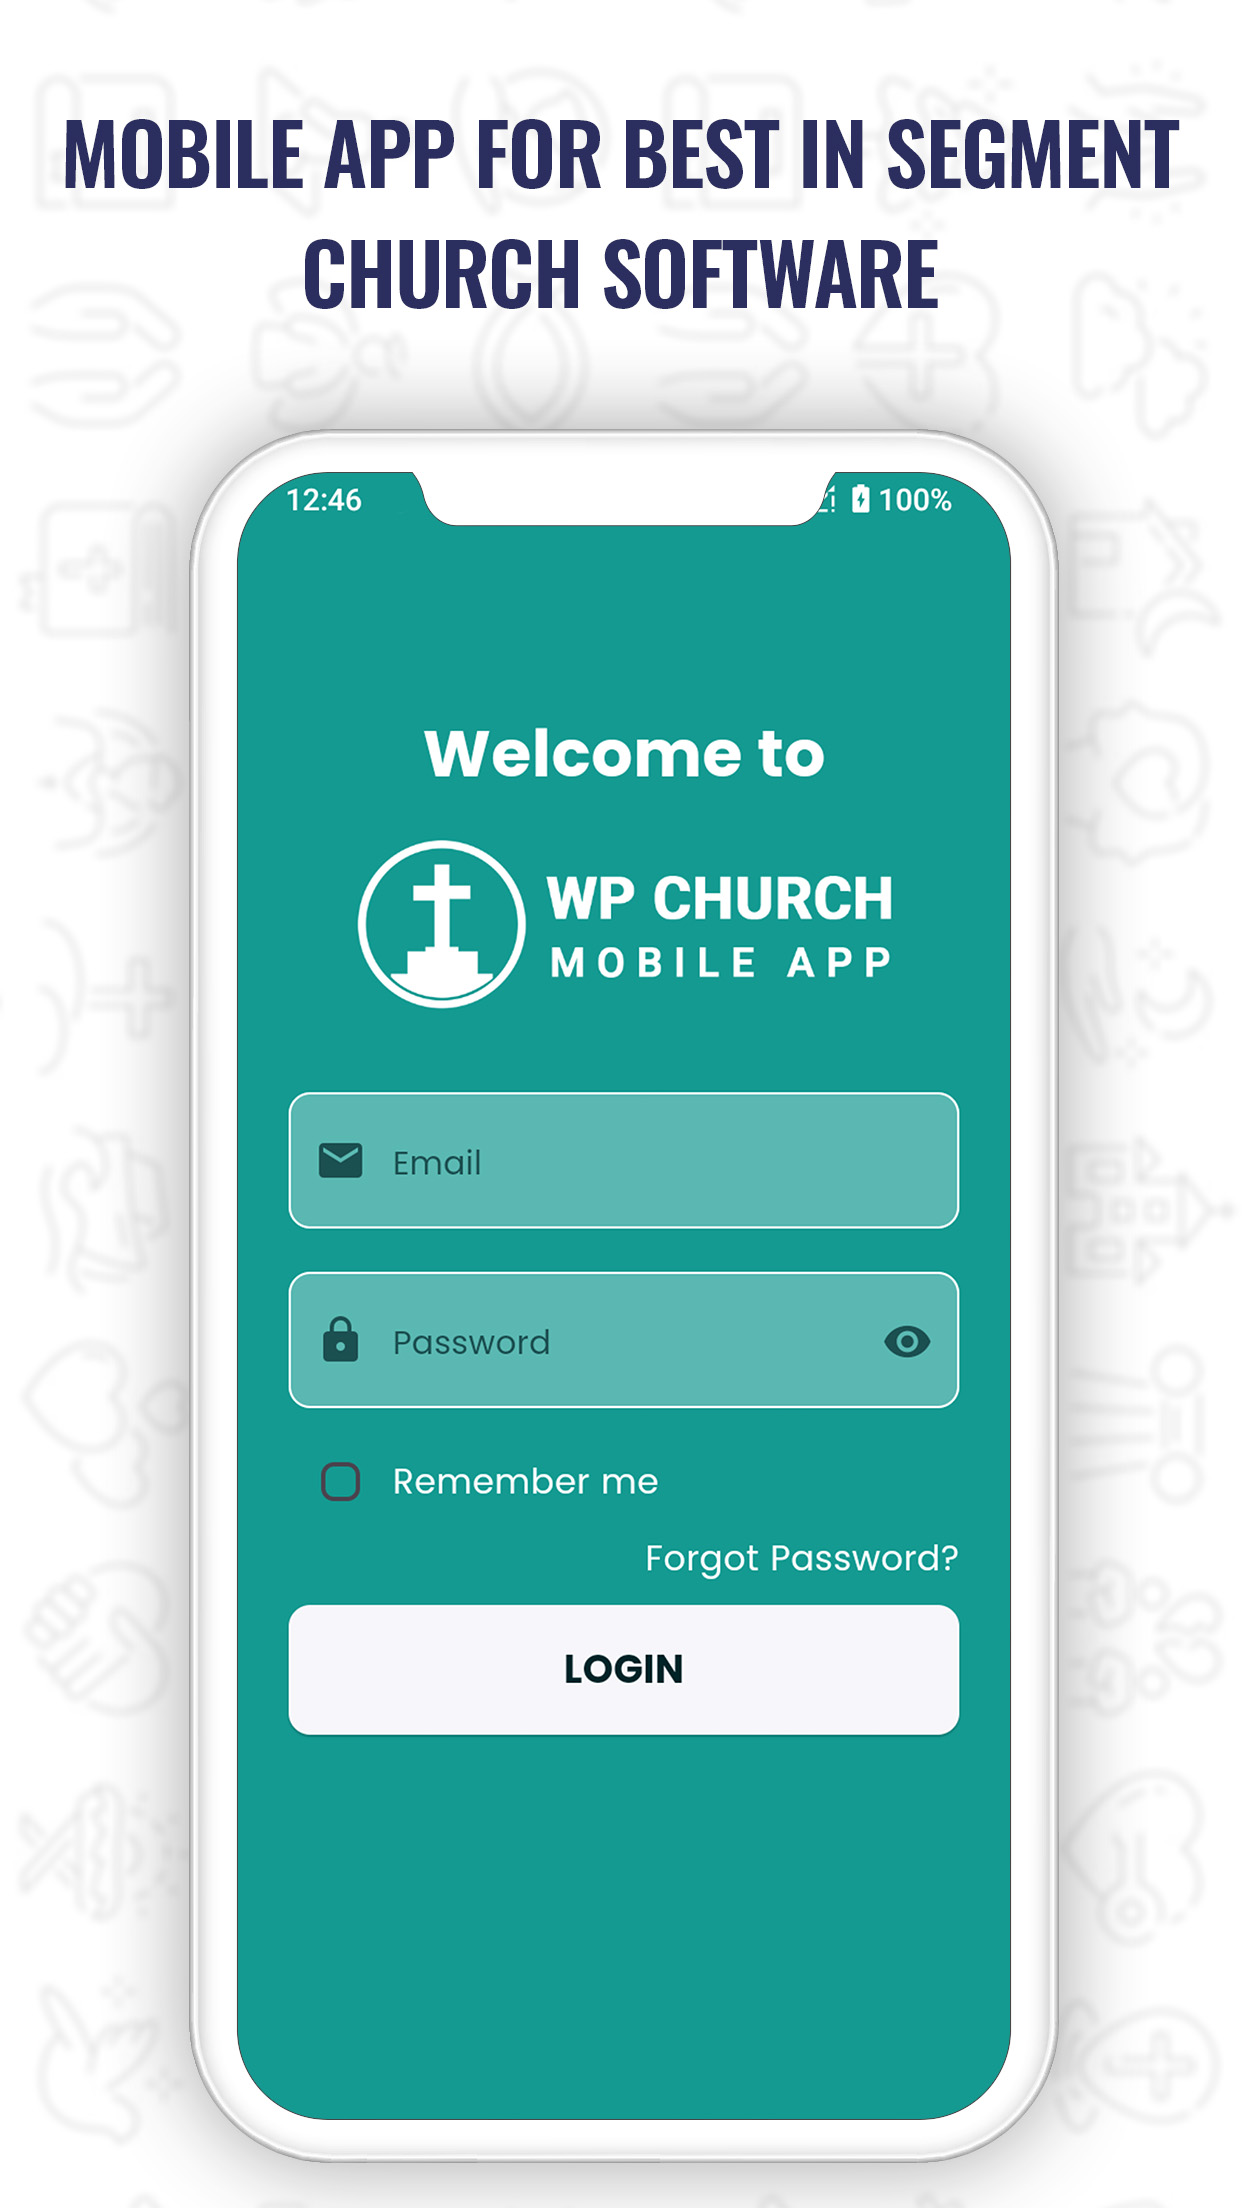
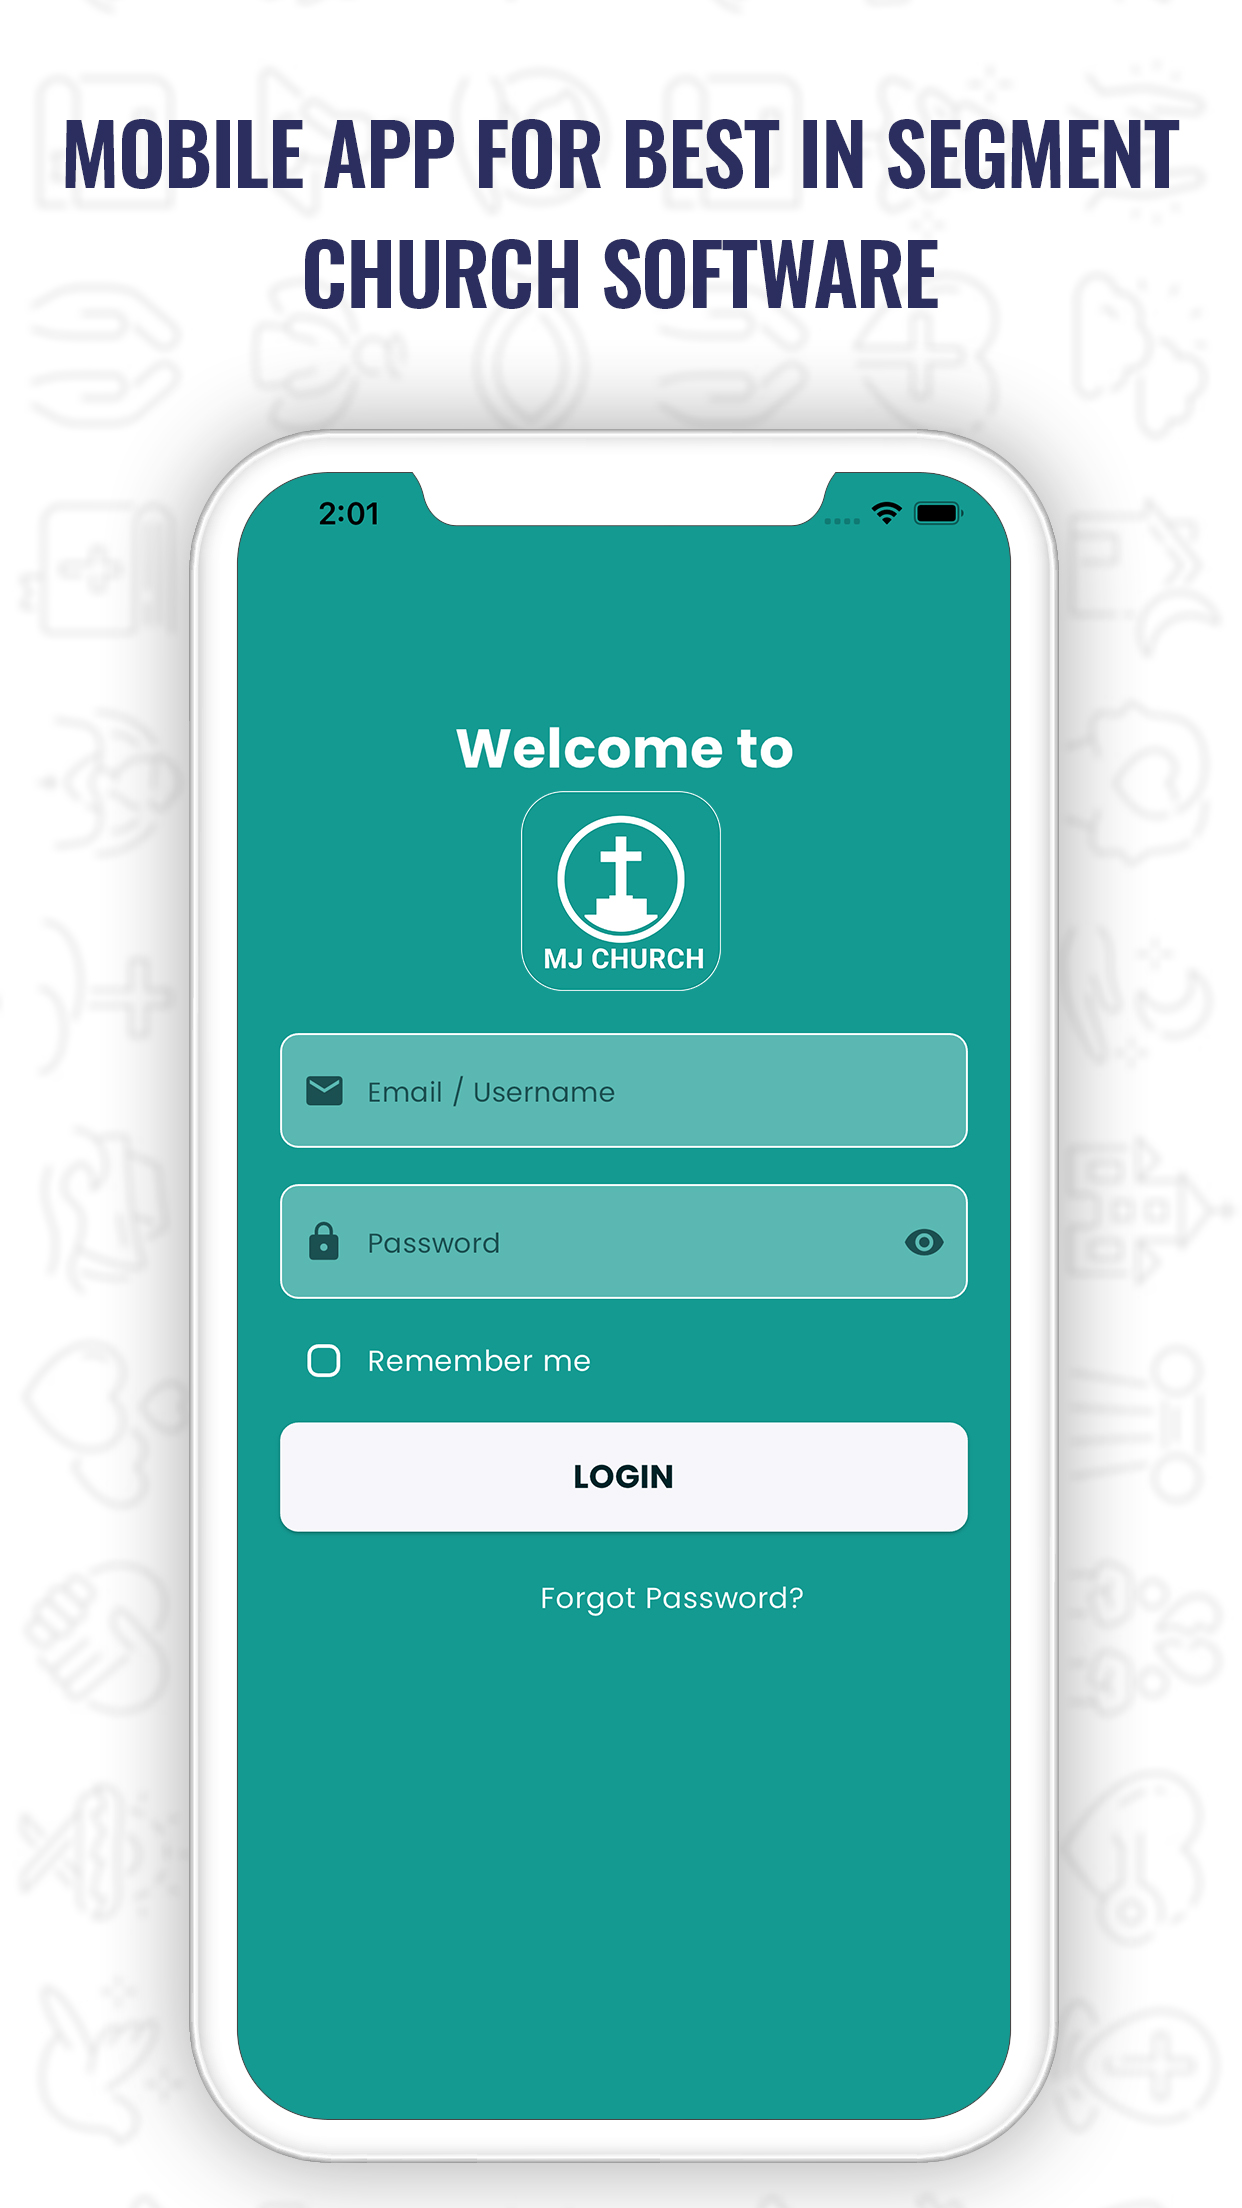
images changes

diff --git a/index.html b/index.html
@@ -59,6 +59,7 @@
                      <li><a href="#change-base-url">Change Base URL</a></li>
                      <li><a href="#Android-Customization">Flutter Customization</a></li>
                      <li><a href="#firebase-notifications">Firebase Notifications</a></li>
+                     <li><a href="#license_error_troubleshooting">License Validation Troubleshooting</a></li>
                      <li><a href="#license_settings">License Registration Settings</a></li>
                      <li><a href="#sign-your-release-build">Create Release Build</a></li>
                      <li>
@@ -83,7 +84,7 @@
             <div class="col-md-8">
                <section id="Introduction">
                   <div id="header" class="row">
-                     <div class="col-md-3 logo"> <a href="index.html"><img src="images/login_church.jpg" width="230px"
+                     <div class="col-md-3 logo"> <a href="index.html"><img src="images/login_church.png" width="230px"
                               height="70px" id="img-logo" alt="logo"></a> </div>
                      <div class="col-md-8 col-md-offset-1 desc">
                         <h4 class="slight">Church App - Church Management System<sub><small></small></sub></h4>
@@ -371,50 +372,7 @@
                         <br>
                         <br>
                      </section>
-                      <section id="sign-your-release-build">
-                          <h3><strong>I) <u>Sign your release build</u></strong></h3>
-                          <br>
-                          <p>To sign a release build for Church Management App, you can follow these steps:
-                              <br>
-                              <strong>Step 1: Generate a keystore file</strong>
-                              <li>Right-click on the "android" directory and select "Flutter" -> "Open Android module in
-                                  Android Studio"</li>
-                              <li>In the Generate Signed Bundle or APK dialog, select Android App Bundle or APK and click
-                                  Next.</li>
-                              <li>Below the field for Key store path, click Create new.</li>
-                              <li>On the New Key Store window, provide the following information for your keystore and key,
-                                  as shown in figure 2.<br>
-                                  <img alt="" src="images/key-store.png" height="400" width="400">
-                              </li>
-                          <p>• Keystore
-                              <li><strong>Key store path:</strong> Select the location where your keystore should be
-                                  created. Also, a file name should be added to the end of the location path with the .jks
-                                  extension.</li>
-                          </p>
-                          <li><strong>Password:</strong> Create and confirm a secure password for your keystore.</li>
-                          </p>
-                          <p>• Key
-                              <li><strong>Alias:</strong> Enter an identifying name for your key.</li>
-                              <li><strong>Password:</strong> Create and confirm a secure password for your key. This should
-                                  be the same as your keystore password.</li>
-                              <li><strong>Validity (yeas):</strong> Set the length of time in years that your key will be
-                                  valid. Your key should be valid for at least 25 years, so you can sign app updates with
-                                  the same key through the lifespan of your app.</li>
-                              <li>Certificate: Enter some information about yourself for your certificate. This information
-                                  is not displayed in your app, but is included in your certificate as part of the APK.</li>
-                          </p>
-                          <li>Once you complete the form, click <strong>OK</strong>.</li>
-                          <img alt="" src="images/built.PNG" height="400" width="800"></li>
-                          <li>Now Replace <strong>dasinfomedia app.jks</strong> File and Open
-                              <strong>key.properties</strong> File And Change your <strong>.jks</strong> file Detail
-                          </li>
-                          <li>Now you can follow these steps and Generate Your Release Apk</li>
-                          <img alt="" src="images/apkk.png" height="200" width="500"></li>
-                          <p>Click on "Build" → then click on "Flutter" → and finally click on "Build APK".
-                              <strong>church_wp_app\build\app\outputs\apk\release</strong>This space will appear after the
-                              build is complete.
-                          </p>
-                      </section>
+
                       <section id="license_error_troubleshooting">
                           <h3><strong>J) <u>License Validation Troubleshooting</u></strong></h3>
                           <br>
@@ -551,7 +509,50 @@
                          <br><br>
 
                      </section>
-
+                      <section id="sign-your-release-build">
+                          <h3><strong>I) <u>Sign your release build</u></strong></h3>
+                          <br>
+                          <p>To sign a release build for Church Management App, you can follow these steps:
+                              <br>
+                              <strong>Step 1: Generate a keystore file</strong>
+                              <li>Right-click on the "android" directory and select "Flutter" -> "Open Android module in
+                                  Android Studio"</li>
+                              <li>In the Generate Signed Bundle or APK dialog, select Android App Bundle or APK and click
+                                  Next.</li>
+                              <li>Below the field for Key store path, click Create new.</li>
+                              <li>On the New Key Store window, provide the following information for your keystore and key,
+                                  as shown in figure 2.<br>
+                                  <img alt="" src="images/key-store.png" height="400" width="400">
+                              </li>
+                          <p>• Keystore
+                              <li><strong>Key store path:</strong> Select the location where your keystore should be
+                                  created. Also, a file name should be added to the end of the location path with the .jks
+                                  extension.</li>
+                          </p>
+                          <li><strong>Password:</strong> Create and confirm a secure password for your keystore.</li>
+                          </p>
+                          <p>• Key
+                              <li><strong>Alias:</strong> Enter an identifying name for your key.</li>
+                              <li><strong>Password:</strong> Create and confirm a secure password for your key. This should
+                                  be the same as your keystore password.</li>
+                              <li><strong>Validity (yeas):</strong> Set the length of time in years that your key will be
+                                  valid. Your key should be valid for at least 25 years, so you can sign app updates with
+                                  the same key through the lifespan of your app.</li>
+                              <li>Certificate: Enter some information about yourself for your certificate. This information
+                                  is not displayed in your app, but is included in your certificate as part of the APK.</li>
+                          </p>
+                          <li>Once you complete the form, click <strong>OK</strong>.</li>
+                          <img alt="" src="images/built.PNG" height="400" width="800"></li>
+                          <li>Now Replace <strong>dasinfomedia app.jks</strong> File and Open
+                              <strong>key.properties</strong> File And Change your <strong>.jks</strong> file Detail
+                          </li>
+                          <li>Now you can follow these steps and Generate Your Release Apk</li>
+                          <img alt="" src="images/apkk.png" height="200" width="500"></li>
+                          <p>Click on "Build" → then click on "Flutter" → and finally click on "Build APK".
+                              <strong>church_wp_app\build\app\outputs\apk\release</strong>This space will appear after the
+                              build is complete.
+                          </p>
+                      </section>
 
                      <section id="church-app-pages">
                         <h3><strong>L) <u>Church Management App Overview</u></strong></h3>
